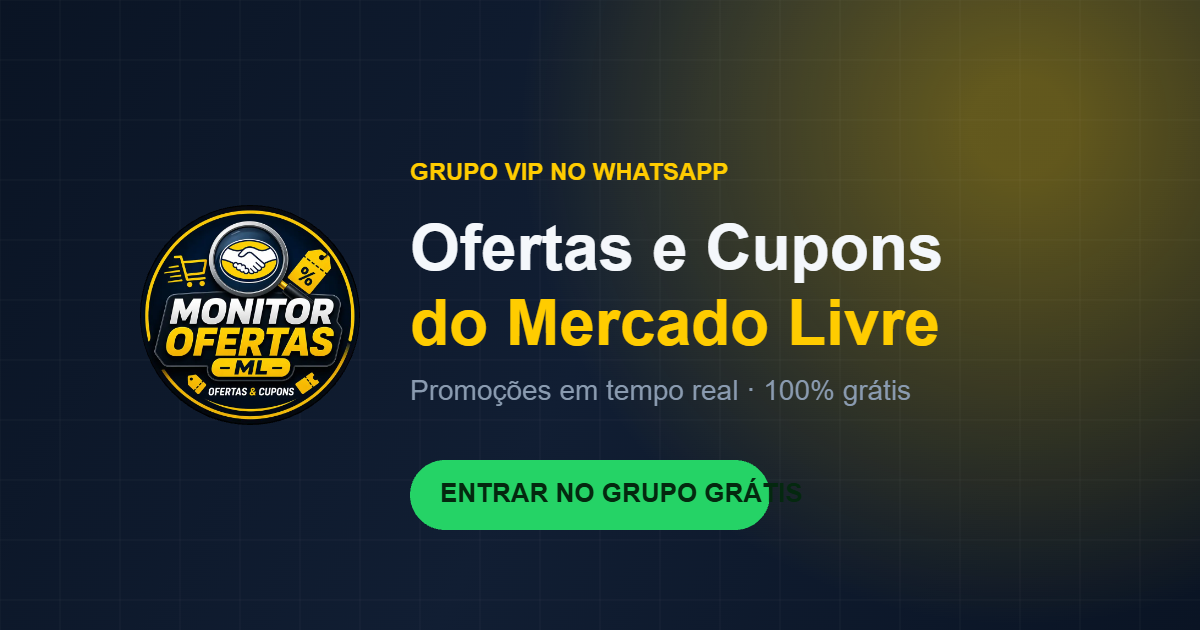
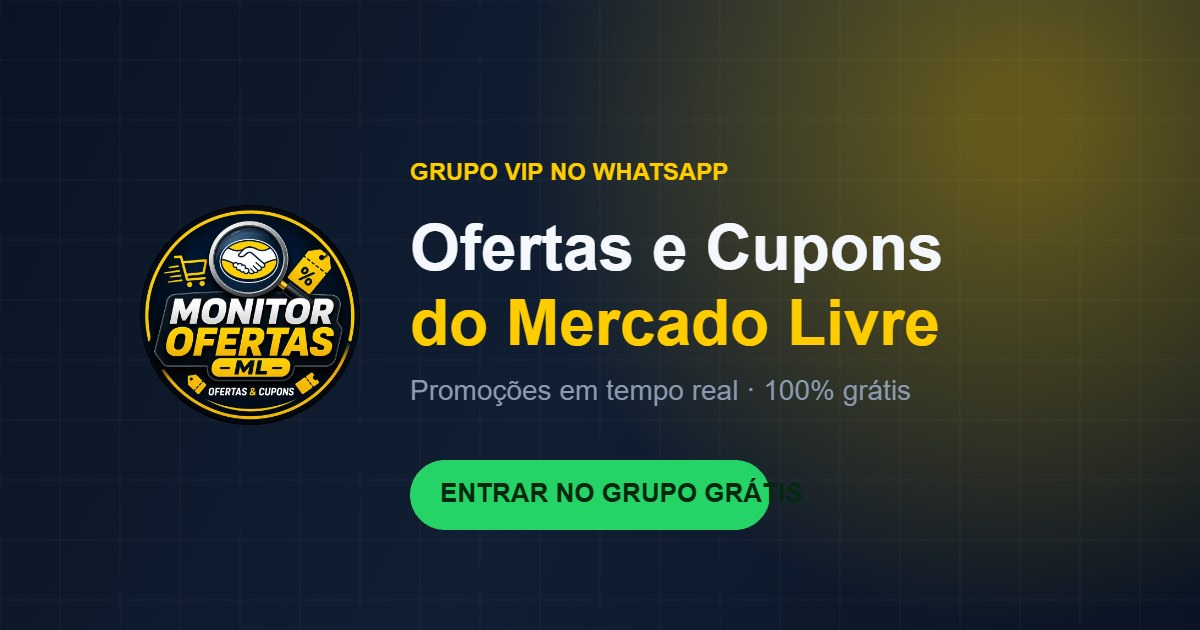
fix(preview): og-image do /whats era PNG com nome .jpg
O /links mostra preview bonito no WhatsApp e o /whats nao. A diferenca estava
no arquivo, nao nas metas:

  links : ffd8ffe0...  JPEG de verdade, RGB,  117 KB  -> preview OK
  invite: 89504e47...  PNG disfarcado, RGBA,  789 KB  -> WhatsApp recusa

Byte magico 89504e47 e PNG, mas o servidor manda Content-Type: image/jpeg —
e sao 789 KB, acima do teto que o WhatsApp aceita pra preview. Duas razoes
independentes pra ele desistir.

Convertido pra JPEG real (achatado sobre branco porque JPEG nao tem canal
alfa; o alfa era opaco, entao a arte nao mudou): 789 KB -> 82 KB.

Metas completadas nas duas paginas (/whats e /invite usam a mesma imagem):
og:image:type, width, height, alt, og:type e twitter:card=summary_large_image
— sem width/height muitos leitores caem no card pequeno.

?v=2 na URL da imagem de proposito: o WhatsApp CACHEIA preview por URL, entao
sem trocar a URL ele continuaria servindo o preview quebrado mesmo com o
arquivo ja corrigido.

diff --git a/invite/index.html b/invite/index.html
@@ -10,7 +10,13 @@
 
 <meta property="og:title" content="Monitor Ofertas ML">
 <meta property="og:description" content="Cupons reais do Mercado Livre direto no seu WhatsApp.">
-<meta property="og:image" content="https://www.monitorofertas.com.br/invite/assets/og-image.jpg">
+<meta property="og:image" content="https://www.monitorofertas.com.br/invite/assets/og-image.jpg?v=2">
+<meta property="og:image:type" content="image/jpeg">
+<meta property="og:image:width" content="1200">
+<meta property="og:image:height" content="630">
+<meta property="og:image:alt" content="Monitor Ofertas ML — grupo de ofertas e cupons do Mercado Livre no WhatsApp">
+<meta property="og:type" content="website">
+<meta name="twitter:card" content="summary_large_image">
 <meta property="og:url" content="https://www.monitorofertas.com.br/invite/">
 
 <link rel="preconnect" href="https://fonts.googleapis.com">

diff --git a/whats/index.html b/whats/index.html
@@ -11,7 +11,13 @@
 
 <meta property="og:title" content="Monitor Ofertas ML — Entre no grupo">
 <meta property="og:description" content="Ofertas e cupons reais do Mercado Livre direto no seu WhatsApp.">
-<meta property="og:image" content="https://www.monitorofertas.com.br/invite/assets/og-image.jpg">
+<meta property="og:image" content="https://www.monitorofertas.com.br/invite/assets/og-image.jpg?v=2">
+<meta property="og:image:type" content="image/jpeg">
+<meta property="og:image:width" content="1200">
+<meta property="og:image:height" content="630">
+<meta property="og:image:alt" content="Monitor Ofertas ML — grupo de ofertas e cupons do Mercado Livre no WhatsApp">
+<meta property="og:type" content="website">
+<meta name="twitter:card" content="summary_large_image">
 <meta property="og:url" content="https://www.monitorofertas.com.br/whats/">
 
 <style>
